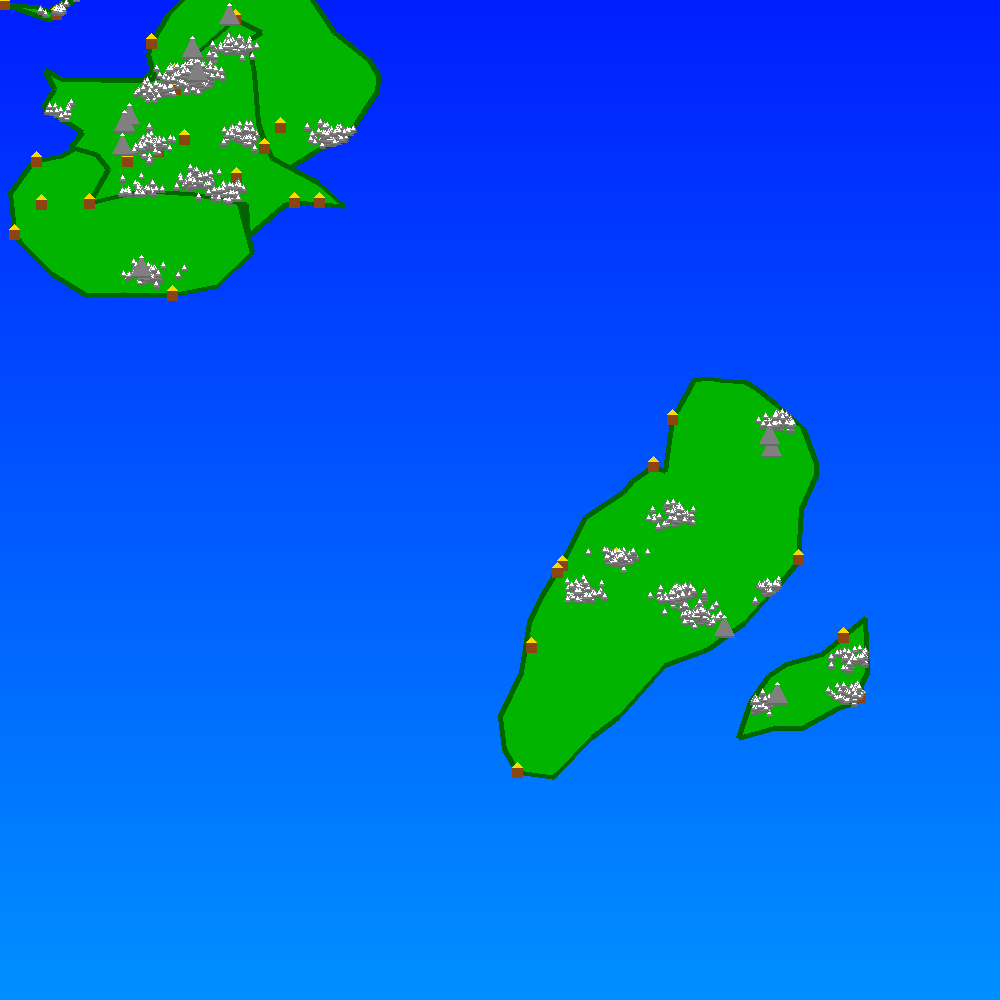
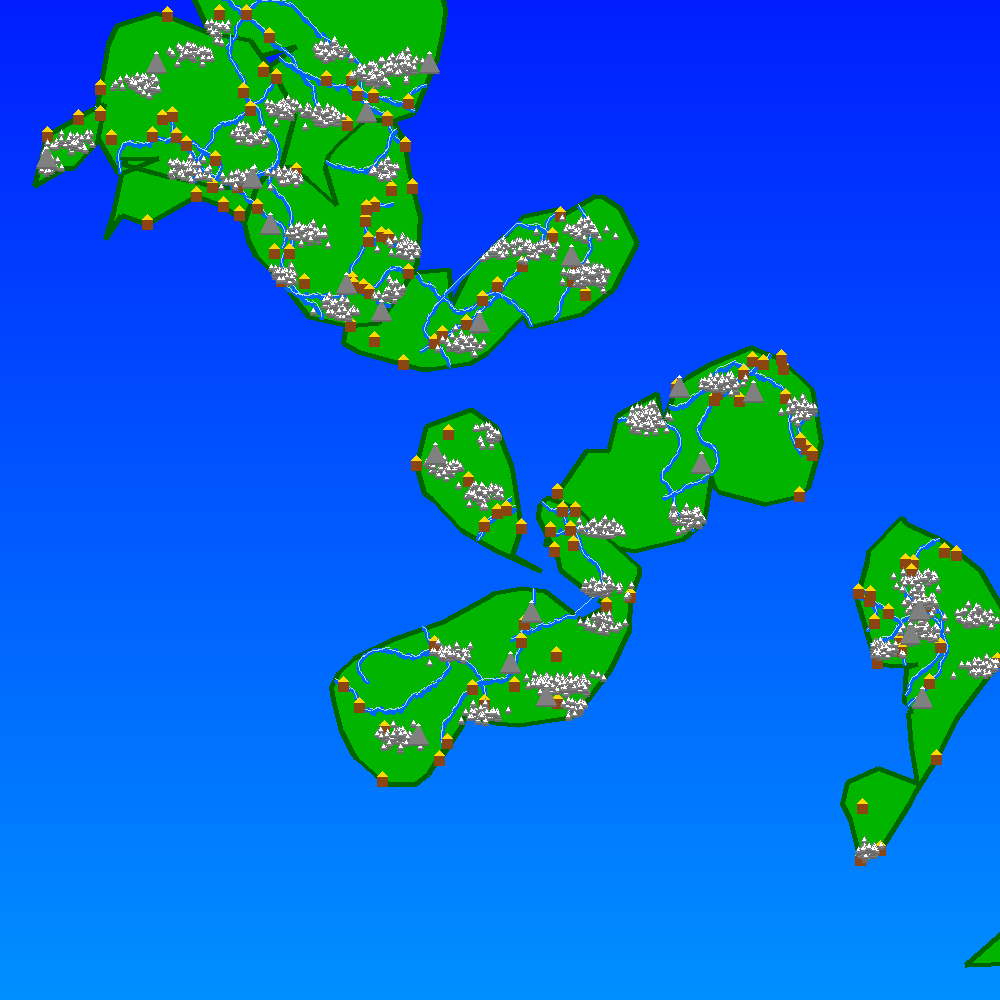
Fixed scales + fixed infinite loop bug

diff --git a/Classes/village.py b/Classes/village.py
@@ -22,9 +22,9 @@ class Village:
         # Set counts for villages based on the continent size and scale
         if self.village_count is None:
             self.village_count = int(self.count_continent_vectors * 0.8 * self.village_scale / 100)
-            self.village_river_count = max(int(self.village_count * 0.6), 1)  # At least one river village
-            self.village_coast_count = max(int(self.village_count * 0.4), 1)  # At least one coast village
-            self.village_random_location_count = max(int(self.village_count * 0.4), 1)  # At least one random village
+            self.village_river_count = int(self.village_count * 0.6)  # At least one river village
+            self.village_coast_count = int(self.village_count * 0.4)  # At least one coast village
+            self.village_random_location_count = int(self.village_count * 0.4)  # At least one random village
 
         # Check if there are rivers before generating river villages
         if self.count_rivers > 0:
@@ -51,14 +51,14 @@ class Village:
                 river_length = len(self.river_lists[river])
 
                 # Ensure there's enough length to select a position
-                if river_length <= 1:
+                if river_length < 2:
                     iter += 1
                     if iter > max_iter:
-                        break
+
+                        break  # Exit the loop when too many attempts have been made
                     continue  # Skip this river if not enough points
 
                 river_pos = random.randint(1, river_length - 1)  # Use range safely
-
                 river_coords = self.river_lists[river][river_pos]
                 village_coords = (river_coords[0] + random.randint(-1, 1), river_coords[1] + random.randint(-1, 1))
 
@@ -66,6 +66,11 @@ class Village:
                 if not self.is_too_close(village_coords):
                     self.village_locations.append(village_coords)
                     break  # Exit the loop when a valid location is found
+                else:
+                    iter += 1
+                    if iter > max_iter:
+
+                        break
 
     def generate_coast_village(self):
         """Generates random villages near the coast."""

diff --git a/Classes/map.py b/Classes/map.py
@@ -3,16 +3,13 @@ import random
 
 class Map:
 
-    def __init__(self, amount_continents, continent_scale, pop_scale, river_scale, mountain_scale, temp_scale, rain_scale, village_scale, mapsize = (1000, 1000)):
+    def __init__(self, amount_continents, continent_scale , river_scale, mountain_scale, village_scale, mapsize = (1000, 1000)):
         self.mapsize = mapsize
         self.amount_continents = amount_continents
         self.continent_scale = continent_scale    #Generates a number of continents 1-x Based on a scale of 1-100
-        self.pop_scale = pop_scale
         self.river_scale = river_scale
         self.mountain_scale = mountain_scale
         self.village_scale = village_scale
-        self.temp_scale = temp_scale
-        self.rain_scale = rain_scale
         self.continent_list = []
         self.generate_map()
 
@@ -28,8 +25,8 @@ class Map:
         size_variance = 50
 
         for i in range(amount_continents):
-            size_continent = 110
-            continent = Continent(self.mapsize, size_continent,riverscale=self.rain_scale,mountainscale=self.mountain_scale,villagescale=self.village_scale)
+            size_continent = 220*continent_scale/100 #Subject to change
+            continent = Continent(self.mapsize, size_continent,mountainscale=self.mountain_scale,villagescale=self.village_scale, riverscale=self.river_scale)
             continent.generate()
             condition = True
             #condition = continent.get_size() > error_range*2 + error_range or continent.get_size() < error_range*2 - error_range

diff --git a/draw_PNG.py b/draw_PNG.py
@@ -250,7 +250,7 @@ def draw_oceans(draw, map_size):
 
 
 def main():
-    karta = Map(6, 50, 50, 50, 50, 50, 50, village_scale=40, mapsize = (1000, 1000))
+    karta = Map(10, 50, 50, 50, 50,  mapsize = (1000, 1000)) #50 Is supposed to represent normal values
     draw_map(karta)
 
 main()
